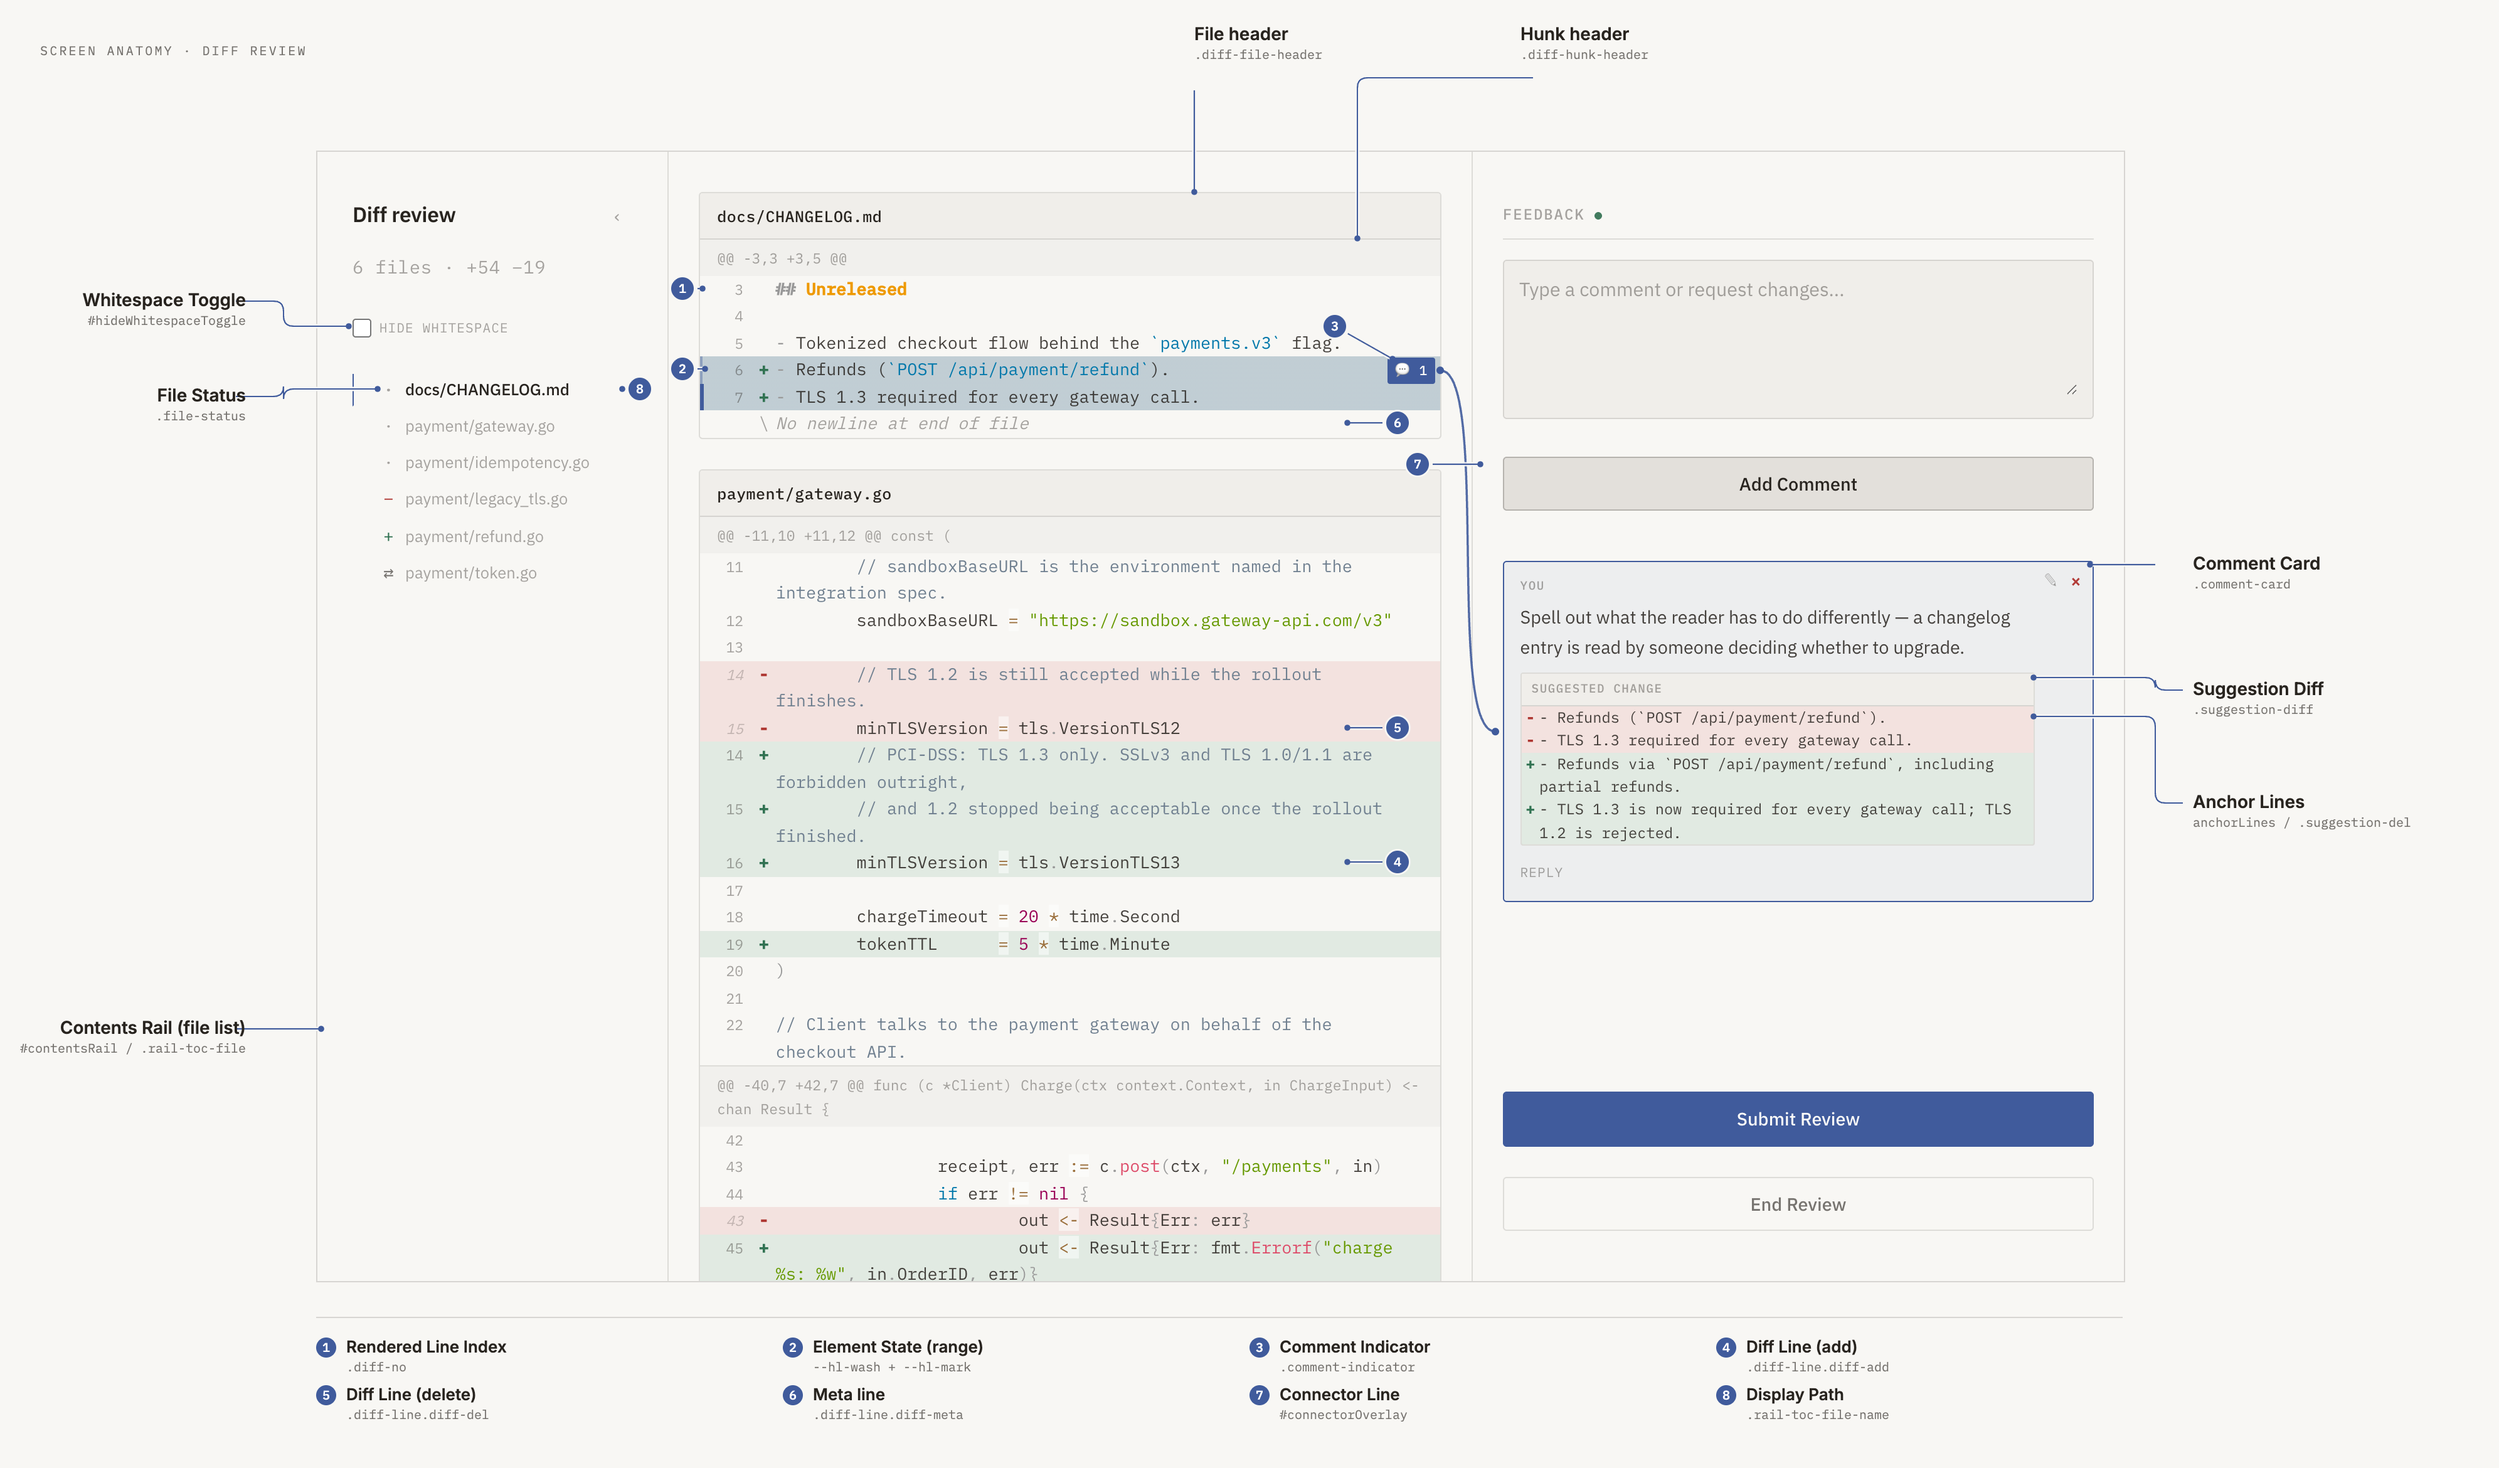
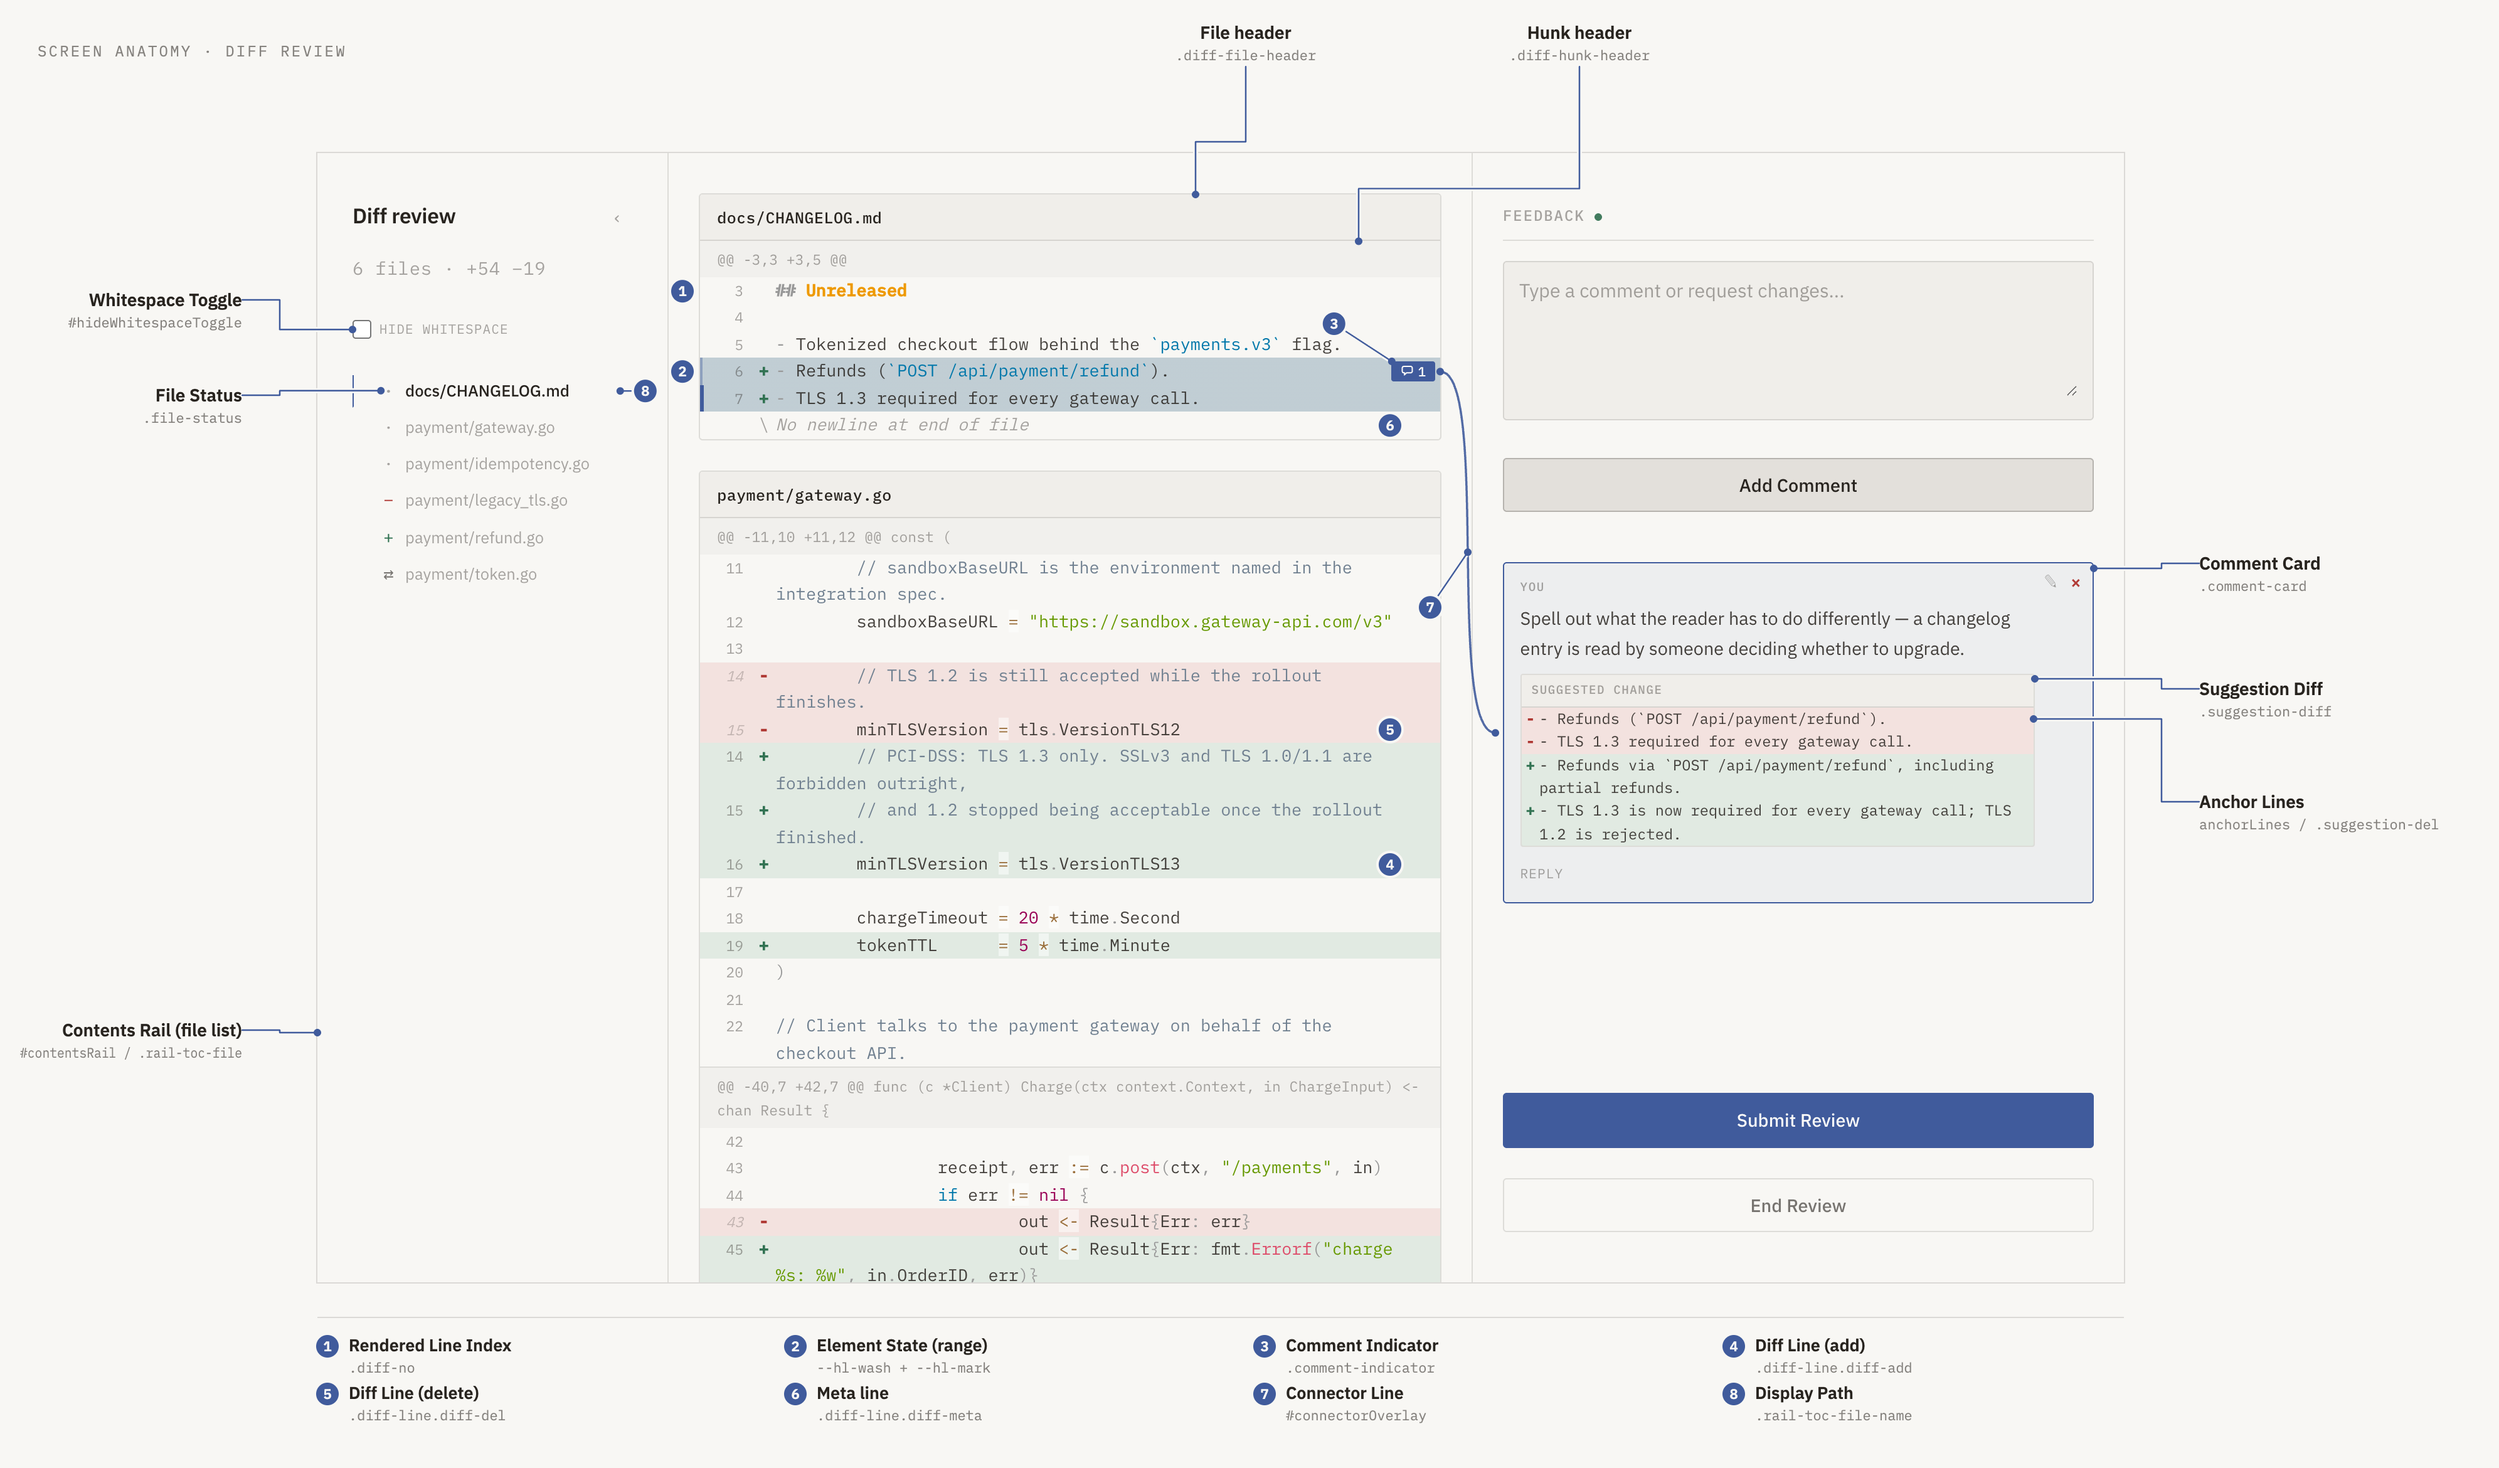
docs: reshoot the screenshots for v0.7.0
Every figure was taken at v0.6.0, and #67 replaced the comment
indicator's colour emoji with a drawn glyph, so all four went stale at
once: the chip in each of them still reads as the one place on the page
carrying a hue other than the accent.

The Markdown README shot changes composition as well. Two threads now
hang off one requirement -- one awaiting an answer, one resolved and
folded away -- so the release's headline change (#70) and the folded
card (#63) are both in the frame a reader meets first; its alt text
follows the picture. The diff shot and the two anatomy figures keep
their compositions, because what they demonstrate did not change.
GLOSSARY section 5 already names the folded card's identifiers, so no
term moved and no label had to be added.

User request: v0.7.0 のリリース準備として、各スクリーンショットを更新したい。
構図は 4 枚とも撮り直しが必須である旨を報告した上で、markdown 版のみ
「複数スレッドを写す」案を採用。

diff --git a/README.md b/README.md
@@ -2,7 +2,7 @@
 
 reviewer is a spec-to-readable HTML compiler and review server.
 
-![A Markdown spec under review: a comment anchored to a requirement, its thread open in the panel](docs/images/review-markdown.png)
+![A Markdown spec under review: two threads on one requirement — one awaiting an answer, one resolved and folded away](docs/images/review-markdown.png)
 
 ![A unified diff under review: a comment on a line range, its suggestion shown as a diff](docs/images/review-diff.png)
 
